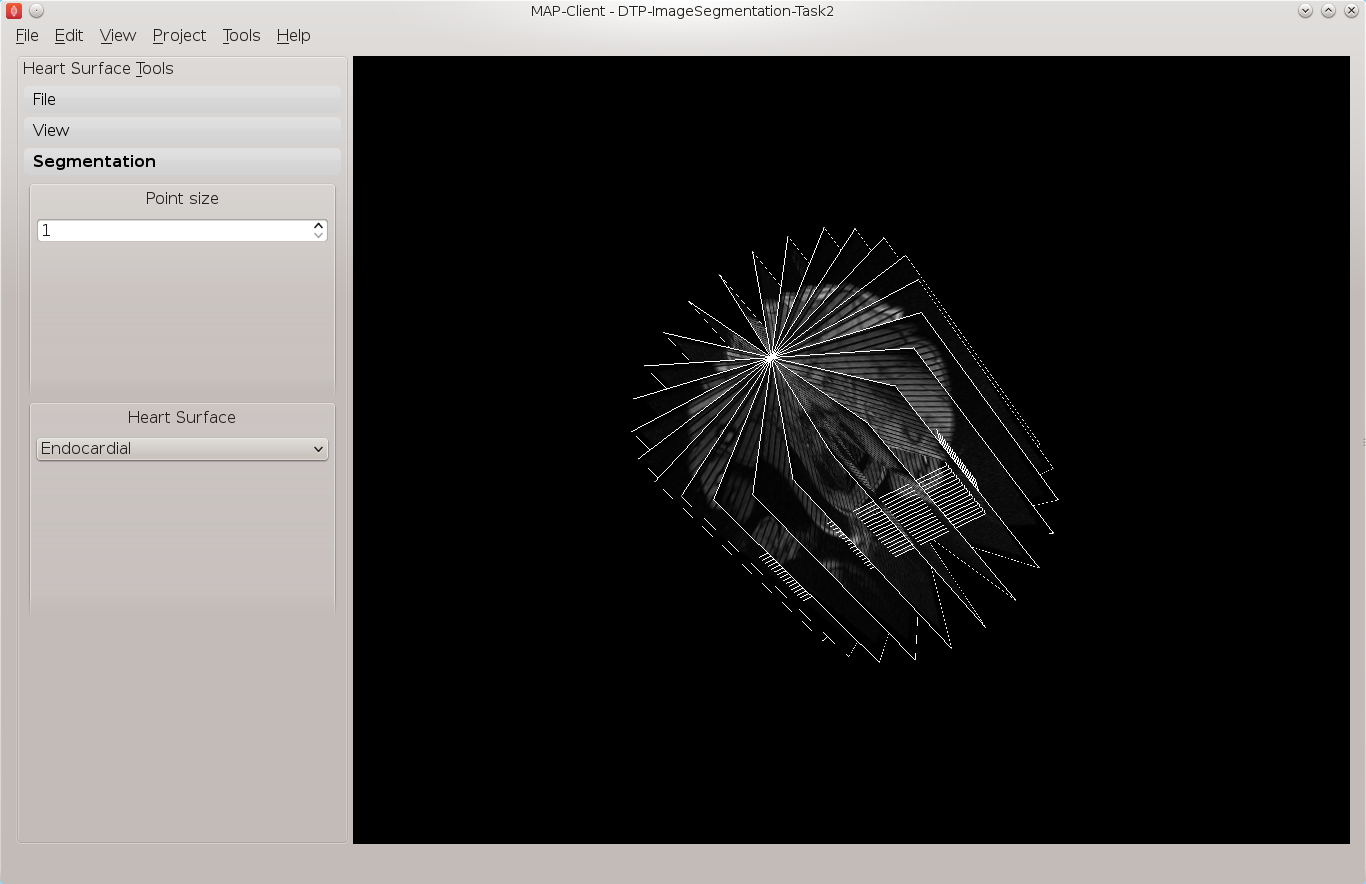
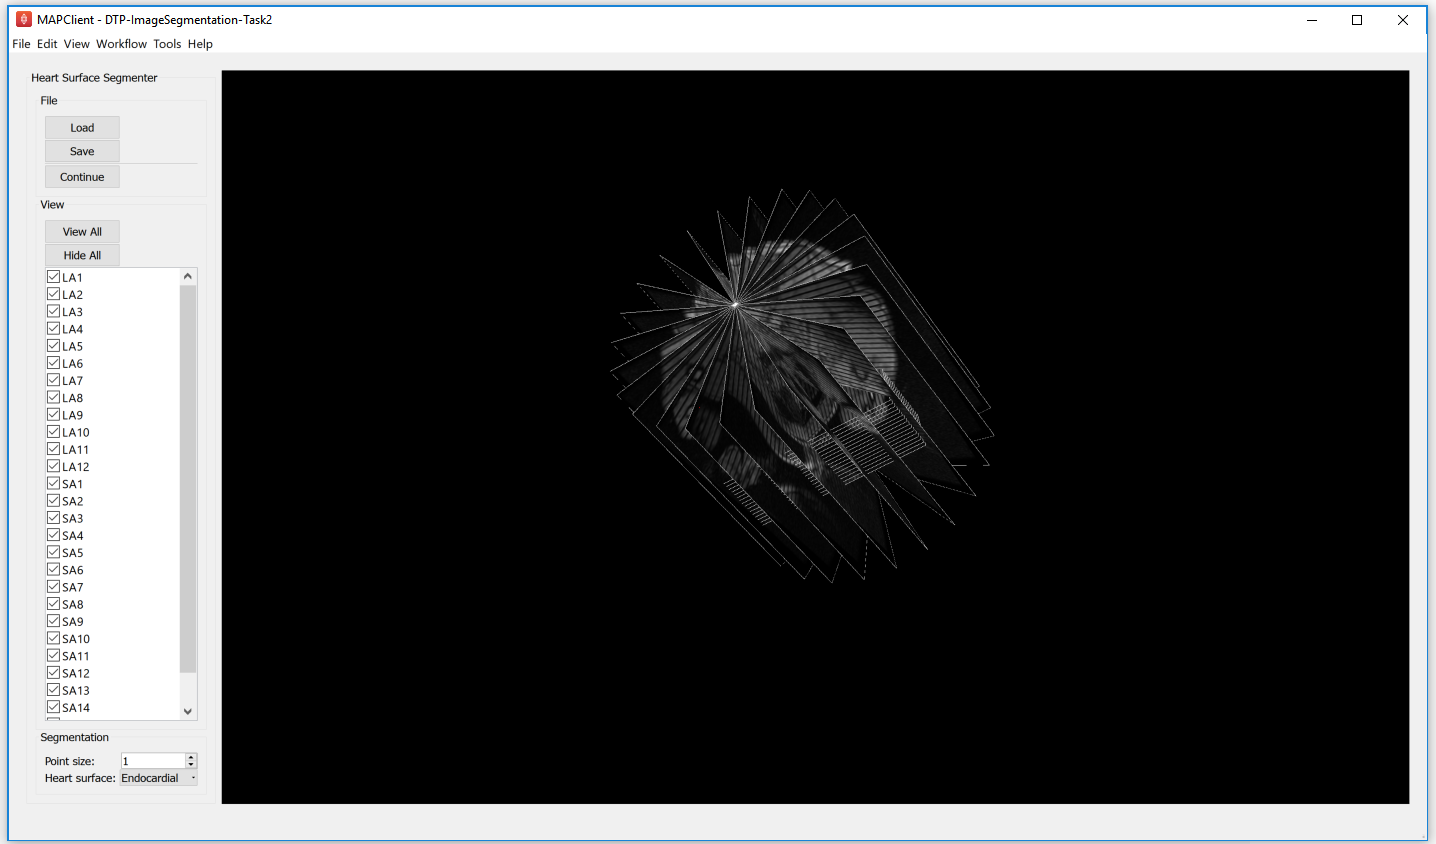
Added Sphinx markup in this section

diff --git a/source/imagesegmentation.rst b/source/imagesegmentation.rst
@@ -4,7 +4,7 @@ Image Segmentation
 
 This tutorial is on image segmentation and image data post-processing.  The objectives are to gain a basic understanding of the different types of images frequently acquired from medical devices. Understand some of the Digital Imaging and Communications in Medicine (DICOM) standard and the information that is useful to image segmentation.  Gain some knowledge on manual and semi-automatic image segmentation and be aware of the reasons for post-processing segmented data. This tutorial includes following sections:
 
-.. contents:: 
+.. contents:: Contents:
    :local:
    :depth: 2
    :backlinks: top
@@ -32,12 +32,11 @@ As mentioned above, task 1 is to investigate the DICOM headers from a set of tag
    
 In this workflow there are *three* steps:
 
-#. The **image source** step from which we will load the DICOM images.
-#. The **DICOM header query** step which will be used to query tags from the DICOM image.  
-#. The **Python dictionary serialisation** step so that we may store queries for future reference.
+#. The **Image Source** step from which we will load the DICOM images.
+#. The **DICOM Header Query** step which will be used to query tags from the DICOM image.  
+#. The **Dict Serializer** step so that we may store queries for future reference.
 
-When we *execute* this workflow we are presented with :numref:`dtp_cp_seg_tsk1_inte` an interface for querying DICOM headers.
-   
+When we execute this workflow we are presented with :numref:`dtp_cp_seg_tsk1_inte` an interface for querying DICOM headers.
    
 .. _dtp_cp_seg_tsk1_inte:
 .. figure:: _images/task1interface.png
@@ -46,8 +45,7 @@ When we *execute* this workflow we are presented with :numref:`dtp_cp_seg_tsk1_i
    
    DICOM Header Query Interface
    
-In :numref:`dtp_cp_seg_tsk1_inte` we can see a number of the GUI elements. On the left of the screen, [1] we can see the *DICOM image* that we have chosen to query and two combo boxes(*DICOM Tag* and *DICOM Keyword*) below from which we can select one to perform a query with the identified tag. The *Query* button [2] when clicked will query the selected DICOM image with the header tag from the last activated combo box.  The results of the query will appear on the right-hand side [3]. On the right-hand side we have four text boxes (*Element name, Element representation, Element value* and *Element multiplicity*) that will be populated with the result of our query.  The *Element name* is related to the DICOM keyword but it is not an exact match, the *Element representation* is defined by the standard and is used to determine the format of the element value. The *Element value* is the actual value of tag queried and the *Element multiplicity* is the number of values in the value element,usually the element multiplicity is one.  When the *Store* button [4] 
-is clicked,the result of the query is saved to the saved queries table [5], rows in this table maybe deleted by selecting the row to be deleted with the mouse and clicking the *Remove* button.  When the *Done* button [6] is clicked the workflow will finish and return to the workflow edit screen.
+In :numref:`dtp_cp_seg_tsk1_inte` we can see a number of the GUI elements. On the left of the screen, [1] we can see the ``DICOM Image`` that we have chosen to query and two combo boxes(:guilabel:`DICOM Tag` and :guilabel:`DICOM Keyword`) below from which we can select one to perform a query with the identified tag. The :guilabel:`&Query` button [2] when clicked will query the selected DICOM image with the header tag from the last activated combo box.  The results of the query will appear on the right-hand side [3]. On the right-hand side we have four text boxes (:guilabel:`Element name`\, :guilabel:`Element representation`\, :guilabel:`Element value` and :guilabel:`Element multiplicity`) that will be populated with the result of our query.  The ``Element name`` is related to the DICOM keyword but it is not an exact match, the ``Element representation`` is defined by the standard and is used to determine the format of the element value. The ``Element value`` is the actual value of tag queried and the ``Element multiplicity`` is the number of values in the value element,usually the element multiplicity is one.  When the :guilabel:`&Store` button [4] is clicked,the result of the query is saved to the saved queries table [5], rows in this table maybe deleted by selecting the row to be deleted with the mouse and clicking the :guilabel:`&Remove` button.  When the :guilabel:`&Done` button [6] is clicked the workflow will finish and return to the workflow edit screen.
 
 The DICOM standard is a rather large and ungainly document freely available on the `web <http://dicom.nema.org/standard.html>`_, of interest to us here is part three of the standard dealing with Information Object Definitions and part six of the standard dealing with the Data Dictionary in particular table 6-1 which relates Tags, Names, Keywords, Element Representation and Element Multiplicity.  If you take a look at table 6–1 you will see that it defines a great number of terms and in any given DICOM file most of these terms will not be defined.  What is of interest here are the tags relating to the image position in relation to the patient, position of the patient, the pixel spacing, the size of the image and the image data itself. It is the values taken from these tags that will enable us to correctly orient the images of the patient when we come to segment the left ventricle in task two. Also available are some data regarding the actual patient and study.
 
@@ -63,7 +61,7 @@ Task 2
 
 Task two is to segment the left ventricle of the heart.  Using the MAP Client application again, load the 'DTP Image Segmentation Task 2' workflow.  In this workflow we see five steps - two image source steps,a heart segmentation step and two point cloud serialisation steps.  In this workflow we have two image source steps one for the long axis images and another for the short axis images. We will also differentiate between the endocardial surface and the epicardial surface of the heart which will result in two separate point clouds.
 
-When we *execute* this workflow we are presented with :numref:`dtp_cp_seg_tsk2_init`.
+When we execute this workflow we are presented with :numref:`dtp_cp_seg_tsk2_init`.
 
 .. _dtp_cp_seg_tsk2_init:
 .. figure:: _images/task2initial.png
@@ -82,9 +80,9 @@ In :numref:`dtp_cp_seg_tsk2_init` we can see on the left a toolbox that allows u
  
 This has placed each image plane in the machine or magnet coordinate system.  In the images we are using, you will see lines across the image picture, this comes from the saturated MR signals so that we can track myocardial motion. In the images that we see we have straight saturated bands indicating that these are the reference images.
 
-From the *view* toolbox on the left-hand side we can show the image planes and from the *file* toolbox we can load and save our progress. The done button is also in the file toolbox for when we are finished segmenting.
+From the :guilabel:`View` toolbox on the left-hand side we can show the image planes and from the :guilabel:`File` toolbox we can load and save our progress. The :guilabel:`&Continue` button is also in the :guilabel:`File` toolbox for when we are finished segmenting.
 
-Using the view toolbox first hide all the image planes and then make the 13th short axis image plane visible. You should now be looking at something very similar to :numref:`dtp_cp_seg_tsk2_13th`.
+Using the :guilabel:`View` toolbox first hide all the image planes and then make the 13th short axis image plane visible. You should now be looking at something very similar to :numref:`dtp_cp_seg_tsk2_13th`.
 
 .. _dtp_cp_seg_tsk2_13th:
 .. figure:: _images/task2thirteenth.png
@@ -93,7 +91,7 @@ Using the view toolbox first hide all the image planes and then make the 13th sh
    
    View of the thirteenth short axis image plane
    
-See the :doc:`3D View Help <threedview>` for help on manipulating the view.  Move the image plane to a more suitable view for segmentation.  We wish to segment both the endocardial and epicardial surfaces of the left ventricle. In the *segmentation* toolbox we can see which surface of the heart we have set up to segment.  In this view the control key is used as a modifier for the left mouse button to add segmentation points to the scene.  With the left mouse button held down we can drag the segmentation points to the desired location.  We can also click on existing segmentation points to adjust their position at a later time.  Segmentation points coloured red will be put into the endocardial set of points, segmentation points coloured green will be put into the epicardial set of points.  Use the heart surface combo box in the segmentation toolbox to change the current point set.
+See the :doc:`3D View Help <threedview>` for help on manipulating the view.  Move the image plane to a more suitable view for segmentation.  We wish to segment both the endocardial and epicardial surfaces of the left ventricle. In the :guilabel:`Segmentation` toolbox we can see which surface of the heart we have set up to segment.  In this view the :kbd:`CTRL` (control) key is used as a modifier for the left mouse button to add segmentation points to the scene.  With the left mouse button held down we can drag the segmentation points to the desired location.  We can also click on existing segmentation points to adjust their position at a later time.  Segmentation points coloured *red* will be put into the *endocardial* set of points, segmentation points coloured *green* will be put into the *epicardial* set of points.  Use the :guilabel:`Heart surface` combo box in the :guilabel:`Segmentation` toolbox to change the current point set.
 
 Segmenting this image should result in :numref:`dtp_cp_seg_tsk2_13s`.
 
@@ -113,7 +111,7 @@ Continue segmenting the left ventricle using the long axis images to check for c
    
    View of the segmented left ventricle
    
-Using the save button from the file toolbox save your progress and click the done button to write the two point clouds to disk.
+Using the :guilabel:`&Save` button from the :guilabel:`File` toolbox save your progress and click the :guilabel:`&Continue` button to write the two point clouds to disk.
 
 Task 3
 ======
@@ -125,9 +123,9 @@ In this task we will use image processing techniques such as edge detection and 
 Task 4
 ======
 
-In this task we want to transform the data created in tasks 2 and 3 from machine coordinates to heart or model coordinates.  Open the MAP Client workflow 'DTP Image Segmentation Task 4' and execute it.  You should see the image planes as before.  In this task we need to define the heart coordinate system so that we may contstruct the transformation from machine coordinates to heart coordinates.  We can do this by selecting three landmark points; the Base point, the Apex point, and the RV point.  This will define our heart coordinate system.
+In this task we want to transform the data created in tasks 2 and 3 from machine coordinates to heart or model coordinates.  Open the MAP Client workflow 'DTP Image Segmentation Task 4' and execute it.  You should see the image planes as before.  In this task we need to define the heart coordinate system so that we may contstruct the transformation from machine coordinates to heart coordinates.  We can do this by selecting *three* landmark points; the Base point, the Apex point, and the RV point.  This will define our heart coordinate system.
 
-From the *transform* toolbox we can set the current point we are positioning.  Starting with the apex point find the location at the lower pointed end of the heart which defines the bottom of the left ventricle volume.  This can be seen the clearest on the 3rd short axis image plane, :numref:`dtp_cp_seg_tsk2_apex` shows the apex point.
+From the :guilabel:`Transform` toolbox we can set the current point we are positioning.  Starting with the Apex point find the location at the lower pointed end of the heart which defines the bottom of the left ventricle volume.  This can be seen the clearest on the 3rd short axis image plane, :numref:`dtp_cp_seg_tsk2_apex` shows the apex point.
 
 .. _dtp_cp_seg_tsk2_apex:
 .. figure:: _images/task2apex.png
@@ -136,16 +134,16 @@ From the *transform* toolbox we can set the current point we are positioning.  S
    
    Apex point position in the left ventricle
    
-Make only the 13th image plane visible, on this image plane place the landmarks for the base point and the RV point. The base point is the centre of mass of the left ventricle and the RV point is the centre of mass of the right ventricle. See :numref:`dtp_cp_seg_tsk2_brv` for an example of these locations.
+Make only the 13th short axis image plane visible, on this image plane place the landmarks for the Base point and the RV point(under the :guilabel:`Transform` toolbar). The Base point is the centre of mass of the left ventricle and the RV point is the centre of mass of the right ventricle. See :numref:`dtp_cp_seg_tsk2_brv` for an example of these locations.
 
 .. _dtp_cp_seg_tsk2_brv:
 .. figure:: _images/task2baseptrvpt.png
    :align: center
    :alt: Task 2 placement of base point and RV point
    
-   Placement of the base point and RV point
+   Placement of the Base point and RV point
    
-With these three landmarks set we can determine the heart coordinate system. The origin of this system is one third of the way down the base to apex line.  The X axis for the system is increasing from the base point to the apex point the, Y axis is increasing from the base point to the RV point and the cross product of these two vectors defines the Z axis. We make this coordinate system orthogonal by projecting the RV-base line onto the base-apex line.
+With these three landmarks set, we can determine the heart coordinate system. The origin of this system is one third of the way down the base to apex line.  The X axis for the system is increasing from the base point to the apex point the, Y axis is increasing from the base point to the RV point and the cross product of these two vectors defines the Z axis. We make this coordinate system orthogonal by projecting the RV-base line onto the base-apex line.
 
 In :numref:`dtp_cp_seg_tsk2_axes` we can see an axes glyph to represent the heart coordinate system.  This glyph should be consistent with the definition from the previous paragraph. 
 
@@ -156,7 +154,7 @@ In :numref:`dtp_cp_seg_tsk2_axes` we can see an axes glyph to represent the hear
    
    Axes glyph representing the heart coordinate system
    
-From the file toolbox use the save button to save the location of these points then click the done button to complete this workflow.
+From the :guilabel:`File` toolbox, use the :guilabel:`&Save` button to save the location of these points and then click the :guilabel:`&Done` button to complete this workflow.
 
 Finish
 ======
